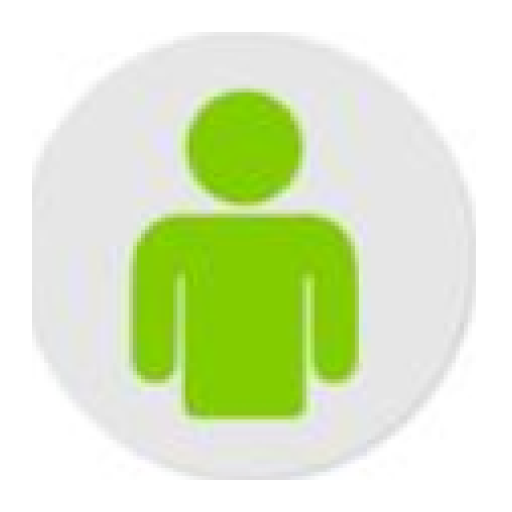
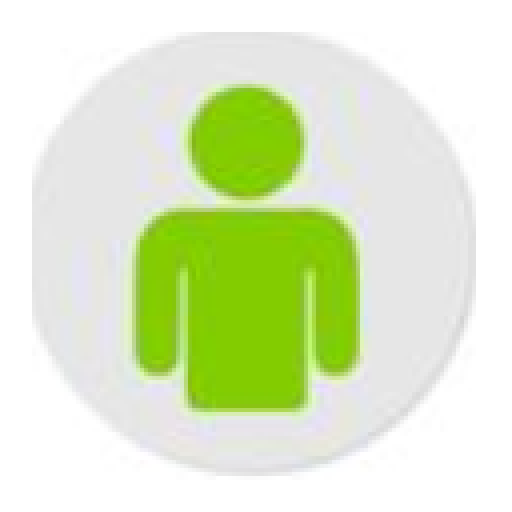
Added images

diff --git a/app/src/main/java/com/bartuart/android/gangsterkill/MainActivity.java b/app/src/main/java/com/bartuart/android/gangsterkill/MainActivity.java
@@ -2,7 +2,6 @@ package com.bartuart.android.gangsterkill;
 
 import android.support.v7.app.AppCompatActivity;
 import android.os.Bundle;
-import android.view.View;
 import android.widget.ImageView;
 import android.widget.LinearLayout;
 
@@ -13,14 +12,9 @@ public class MainActivity extends AppCompatActivity {
         super.onCreate(savedInstanceState);
         setContentView(R.layout.activity_main);
 
-        /*ImageView im = findViewById(R.id.gangster);
+        ImageView im = findViewById(R.id.gangster);
 
-        im.setX(200);
-        im.setY(150);
-        im.setVisibility(View.GONE);
-
-        im.setX(250);
-        im.setY(150);
-        im.setVisibility(View.VISIBLE);*/
+        im.setX(20);
+        im.setY(40);
     }
 }
